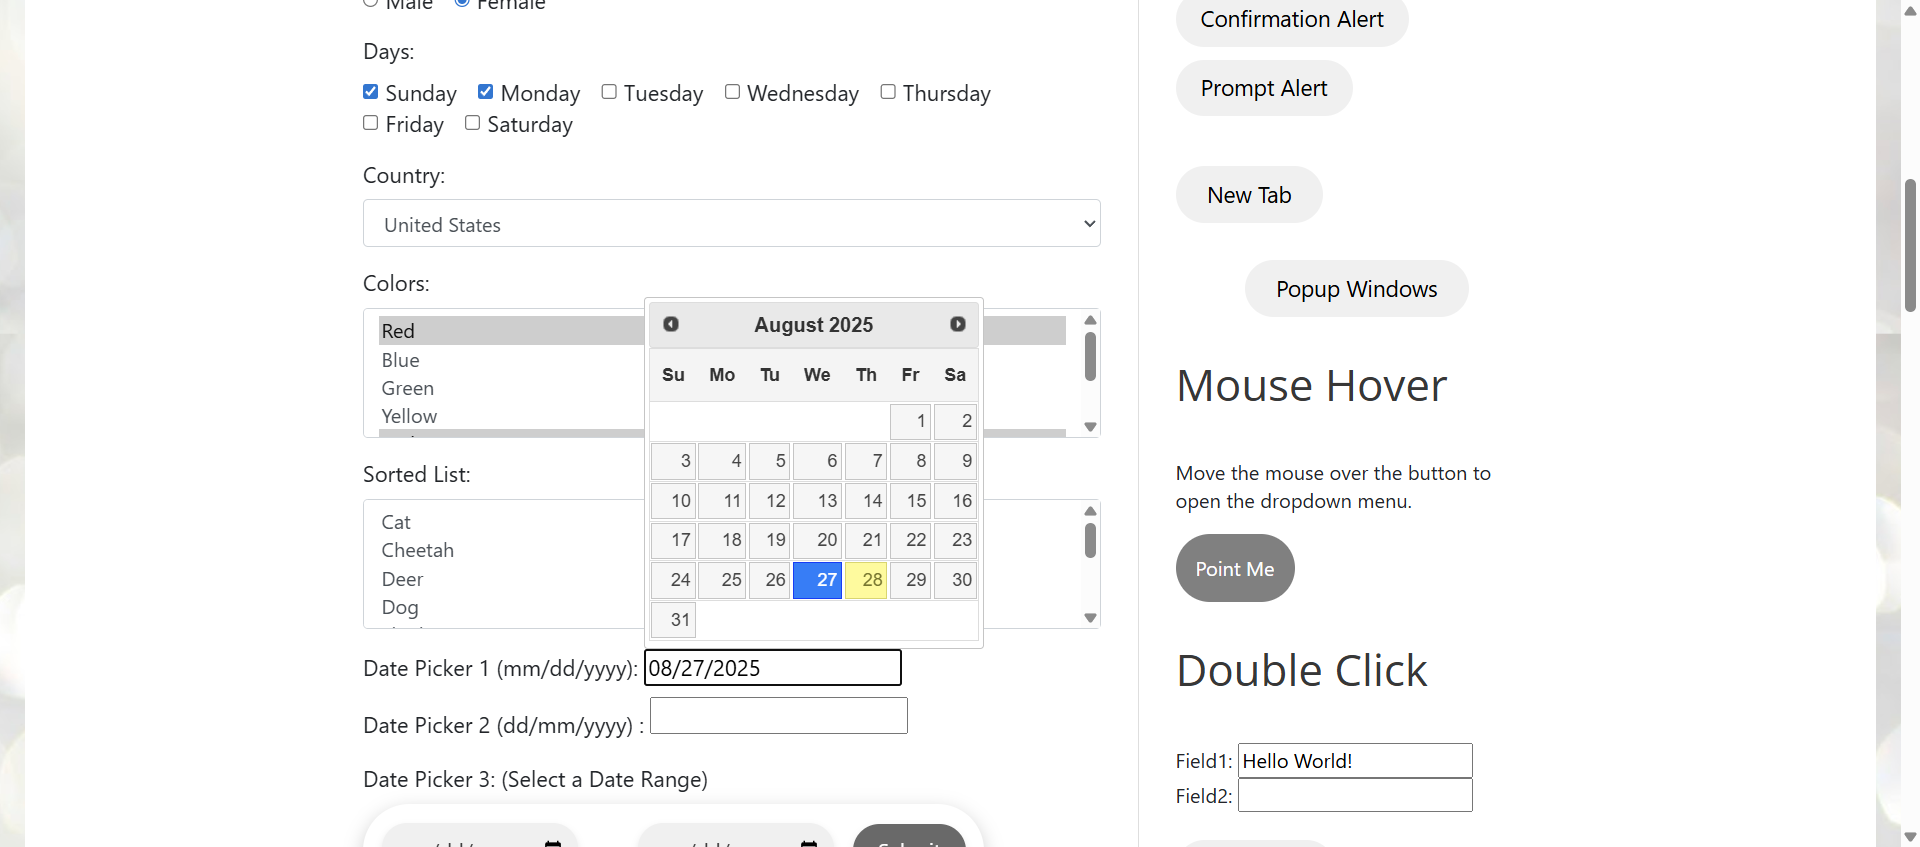
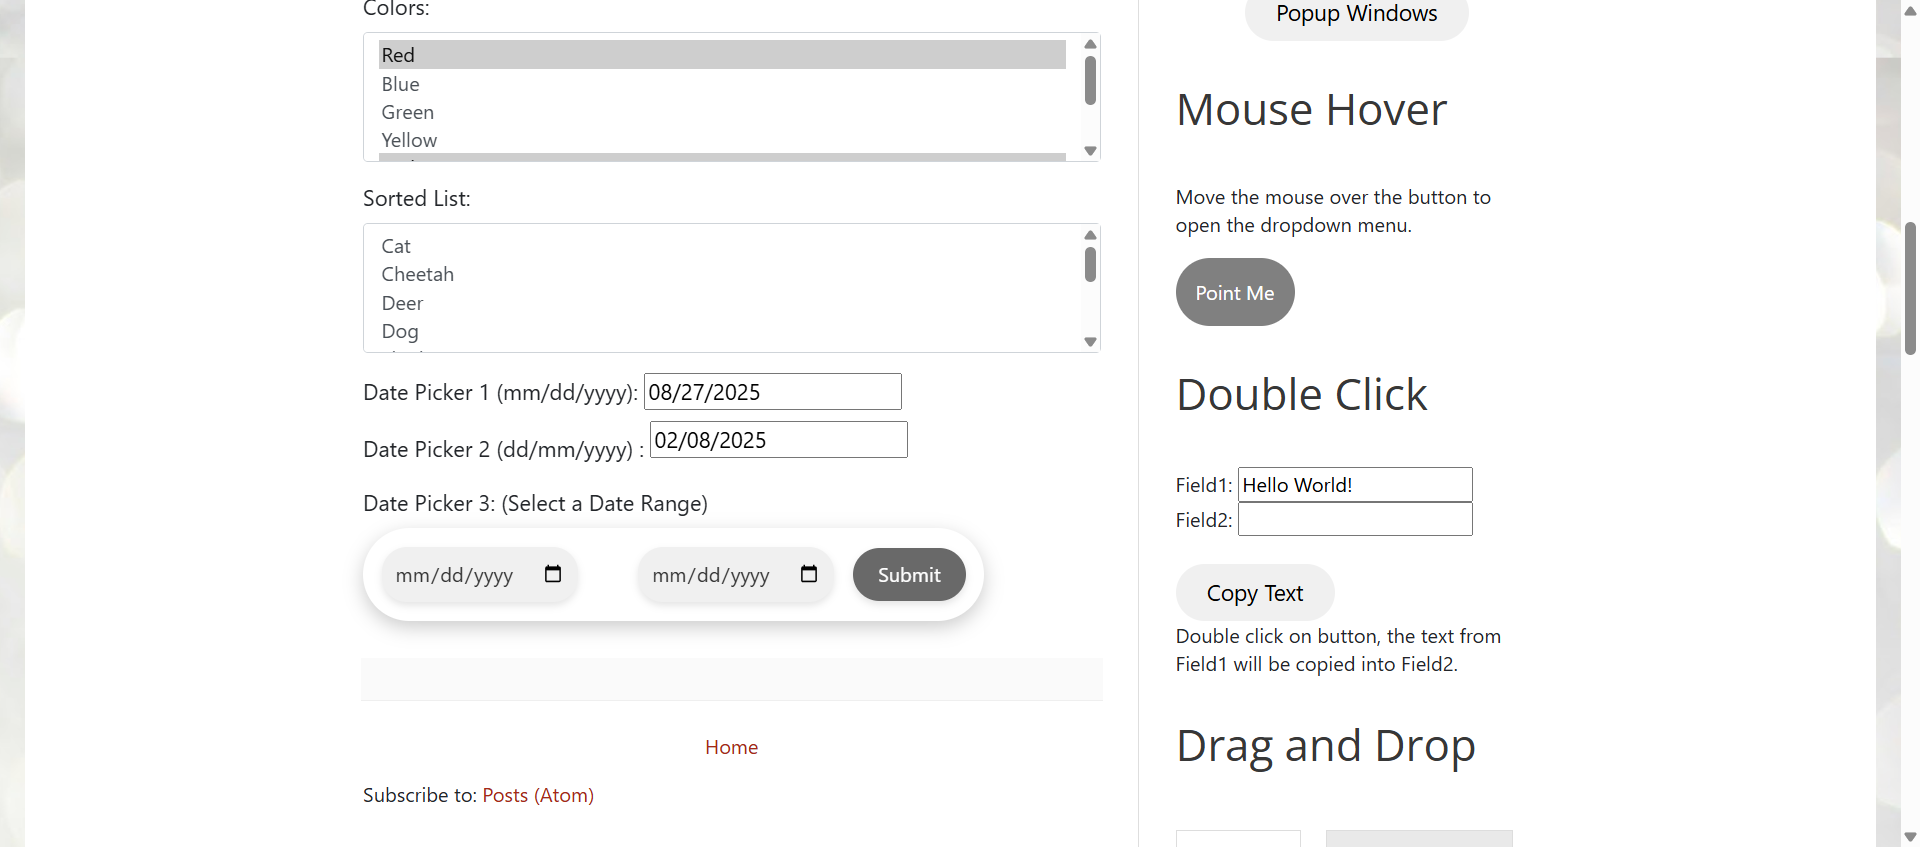
datepicker2

diff --git a/Selenium/selenium-automation-practice/Sample.py b/Selenium/selenium-automation-practice/Sample.py
@@ -119,10 +119,37 @@ for row in sheet.iter_rows(min_row=2, values_only=True):
     time.sleep(THINKTIME)
     # --- Date picker 1 (mm/dd/yyyy) ---
     if date1:
-        date_str = date1.strftime("%m/%d/%Y") if hasattr(date1, 'strftime') else str(date1)
-        date_field = driver.find_element(By.ID, "datepicker")
-        pick_date(date_field, date_str)
-        print(f"Date Picker 1 set to: {date_str}")
+        try:
+            date_str = date1.strftime("%m/%d/%Y") if hasattr(date1, 'strftime') else str(date1)
+            date_field = driver.find_element(By.ID, "datepicker")
+            
+            # Click on the date picker to open the calendar
+            date_field.click()
+            time.sleep(1)
+            print("Date Picker 1 opened")
+            
+            # Clear and enter the date
+            date_field.clear()
+            date_field.send_keys(date_str)
+            time.sleep(1)
+            
+            # Press Tab or click outside to close the date picker
+            from selenium.webdriver.common.keys import Keys
+            date_field.send_keys(Keys.TAB)
+            time.sleep(1)
+            
+            # Alternative: Click somewhere else to close the picker
+            try:
+                # Click on a neutral area to close the date picker
+                driver.find_element(By.TAG_NAME, "body").click()
+                time.sleep(1)
+            except:
+                pass
+            
+            print(f"Date Picker 1 set to: {date_str} and closed")
+            
+        except Exception as e:
+            print(f"Error with Date Picker 1: {e}")
     time.sleep(THINKTIME)
     
     # --- Date picker 2 (dd/mm/yyyy) ---
